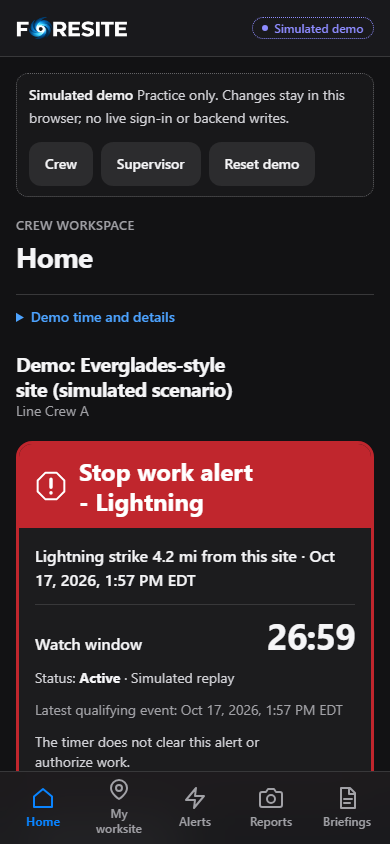
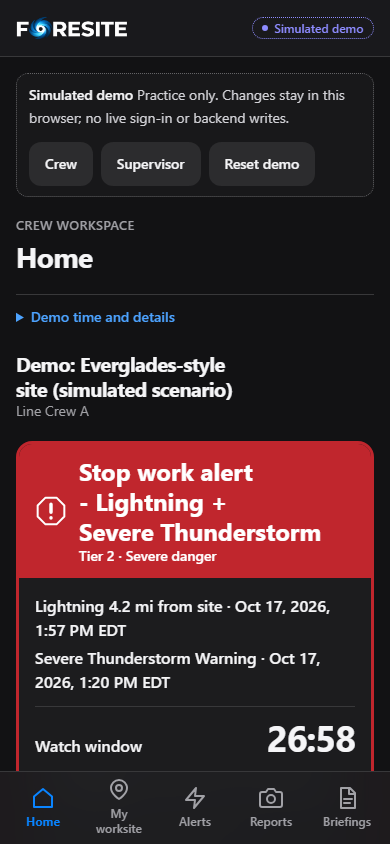
Stack crew score and alert sections at full width

Changed region(s): [[0.0308, 0.5545, 0.9538, 0.9242]]

diff --git a/frontend/src/pages/ConnectedPages.tsx b/frontend/src/pages/ConnectedPages.tsx
@@ -290,7 +290,7 @@ function SitePage({
             </a>
           </div>
         </div>
-        <div className="space-y-5 xl:grid xl:grid-cols-[minmax(0,1.1fr)_minmax(0,1fr)] xl:items-start xl:gap-6 xl:space-y-0">
+        <div className="space-y-5">
           <div className="min-w-0 space-y-5" data-crew-alerts>
             {top.length > 0 && <AlertCard alerts={top} />}
             {!active.length && (
@@ -328,18 +328,16 @@ function SitePage({
             </p>
             {locationDetails}
           </div>
-          <div className="space-y-5 xl:grid xl:grid-cols-12 xl:items-start xl:gap-6 xl:space-y-0">
-            <div className="min-w-0 space-y-3 xl:col-span-4" data-crew-score>
-              <SectionHead title="Site score" />
-              {score}
-            </div>
-            <section className="min-w-0 space-y-3 xl:col-span-8" data-crew-factors aria-label="Score factors and evidence">
-              <SectionHead title="Score factors and evidence" />
-              <div className={`${card} border border-line p-4 @lg:p-5`}>
-                <Factors factors={site.score?.factor_contributions ?? site.top_factors} columns />
-              </div>
-            </section>
+          <div className="min-w-0 space-y-3" data-crew-score>
+            <SectionHead title="Site score" />
+            {score}
           </div>
+          <section className="min-w-0 space-y-3" data-crew-factors aria-label="Score factors and evidence">
+            <SectionHead title="Score factors and evidence" />
+            <div className={`${card} border border-line p-4 @lg:p-5`}>
+              <Factors factors={site.score?.factor_contributions ?? site.top_factors} columns />
+            </div>
+          </section>
           <div className="min-w-0" data-crew-conditions>
             {conditions}
           </div>

diff --git a/docs/CREW_RESPONSIVE_LAYOUT.md b/docs/CREW_RESPONSIVE_LAYOUT.md
@@ -9,10 +9,11 @@ data, permissions and actions across screen sizes.
   between the logo and account controls. PR75 already removed the sidebar. Crew
   has five destinations; only supervisors have Team. The main crew area is capped
   at **1440 px**, without a sidebar gutter.
-- From **1280 px**, Home places the active alert beside supervisor instructions.
-  My Worksite places Site score beside Score factors and evidence with matching
-  section headings/card tops. Weather and conditions spans the full-width row below.
-  Narrow screens stack score, complete factor breakdown, then weather.
+- At every width, Overview places the stop-work alert across the content area,
+  followed by the full-width Hazards and supervisor instructions section.
+  My Worksite stacks **Site score**, **Score factors and evidence**, then
+  **Weather and conditions**, each spanning the content width. The factor and
+  reading grids still gain internal columns when space permits.
 - My Worksite shows every supplied observation, available event tile, full report
   card and score factor without View more/View less controls. Reading
   and event grids gain columns when space permits; report columns are bounded by
@@ -37,6 +38,7 @@ data, permissions and actions across screen sizes.
 
 [Home desktop](crew-desktop.png) ? [Home phone](crew-mobile.png) ?
 [Expanded worksite](worksite-expanded.png) ? [Full-width alerts](alerts-full-width.png)
+[Factors followed by weather](worksite-factors-weather.png).
 [Unified hazards on phone](confirmed-hazards-mobile.png).
 [Species sources above the habitat map](species-provenance.png).
 
@@ -57,29 +59,34 @@ node scripts/check-shell.mjs http://localhost:5177/
 
 Regression checks cover centered navigation, full-width alerts, complete worksite
 readings/reports/outlooks, visible score factors and absent View more controls.
+Geometry checks require full-width Overview alert/hazard sections in reading order
+and full-width My Worksite score/factors/weather sections at every tested width.
 Eleven hazard regression tests cover tier-independent lightning, source states,
 all supported environmental score contributors, outage/elapsed-window alert retention,
 report eligibility/deduplication, unified rows/instructions, distinct Flash Flood
 and unfamiliar hazards, and site identity. Source details and existing
 research/historical limitations remain available with their associated evidence.
 
-Focused browser checks cover 40 role/page cases at 320/390/768/1024/1280/1440/1920/2560,
+Focused browser checks cover 32 role/page cases at 320/390/768/1024/1280/1440/1920/2560,
 with zero horizontal overflow, exceptions or real backend calls. Worksite checks cover
-aligned score/factor cards, full-width weather below and narrow-screen reading order.
+full-width score/factors/weather in vertical order, and Overview checks require the
+full-width alert above hazard information. All supplied readings, available outlooks
+and report cards remain present; navigation remains centered on desktop.
 Unit count: 198.
 Lint, TypeScript, default/live and explicit-demo production builds and the complete
-development/built-demo browser workflow suites also pass.
+built-demo browser workflow suite also pass. It exercises acknowledgement, timer
+reset/reload, report creation, supervisor confirmation/instructions and keyboard flow.
 Unified-list implementation `2d293fb` and `d82a30f`; reconciliation `e96b190`
 preserves main `c285cf5` / read-only guests; `3430f4e` incorporates PR82's fog changes.
 Species placement tests verify source/state/time/caveat containment in its disclosure
 above the habitat map and no detached footer. The prior PR80 baseline also passed
 139 backend score/report/lightning/contract checks; this feature changes no backend code.
-[Review branch](https://github.com/BraydinPG/planit-control-swamphacks/compare/main...feature/cache-score-evidence-layout).
-Latest layout follow-up starts from main `6f563fe` (PR84 merged): 198 frontend tests,
-lint/TypeScript, live/demo builds, the built-demo workflow suite and 40 focused cases
-over eight widths pass with score/factors together and weather below. The initial
-development screenshot run timed out on navigation; the complete built-demo and
-focused browser runs pass with no exceptions or actual backend calls.
+[Review branch](https://github.com/BraydinPG/planit-control-swamphacks/compare/main...feature/cache-full-width-crew-sections).
+Latest user-authorized layout follow-up starts from main `5c1e5d4` (PR86 merged):
+`ConnectedPages.tsx` removes only the two crew side-by-side compositions. It reuses
+the existing cards and leaves supervisor site composition unchanged. Updated browser
+geometry assertions replace the earlier side-by-side expectations. Screenshots above
+show the latest full-width arrangement; prior PR85's score/factor pairing is superseded.
 Existing bundle-size warnings remain; browser evidence is demo/mocked verification,
 not live Auth0/Tiger Data or operational safety acceptance.
 

diff --git a/PROJECT_CONTEXT.md b/PROJECT_CONTEXT.md
@@ -2,6 +2,11 @@
 
 Read this index first, then AGENTS.md, spec.md, tasks.md and relevant source. Verify facts in code; detailed historical results remain in owner guides and Git history.
 
+## Full-width crew sections - 2026-10-18
+- User-authorized `feature/cache-full-width-crew-sections`, base main `5c1e5d4`: My Worksite stacks full-width Site score, Score factors and evidence, then Weather and conditions at every width. Overview stacks the full-width stop-work alert above Hazards and supervisor instructions. This supersedes PR85's desktop score/factor pairing; existing cards, internal grids and phone navigation remain.
+- Verified 198 frontend tests, lint/TypeScript, live/demo builds, the complete built-demo browser workflow suite and 32 focused cases over eight widths. Vertical order/widths, score evidence, all readings/outlooks/reports, acknowledgements/reset/reload and supervisor instructions pass; no overflow, browser exceptions or actual API calls. [Current layout and screenshots](docs/CREW_RESPONSIVE_LAYOUT.md).
+- Only crew composition, existing browser assertions, review screenshots and coordination docs change. Supervisor site layout, scoring/alerts, backend/auth/contracts/fixtures/models and task checkboxes remain unchanged. Rudra should preserve the new full-width ordering; Braydin has no configuration action. Commit/PR attribution is recorded in Git history.
+
 ## Predictive-intelligence landing messaging - 2026-10-18
 - User-authorized `feature/cache-predictive-landing-messaging`, base main `d801615`: public homepage headline is SEE THE RISK. / PLAN BEYOND THE ALERT., with the requested predictive-intelligence description, four research statistics and three feature blocks. Existing branding, atmosphere, animation JavaScript and demo/sign-in destinations remain. No dashboard, backend/auth, model/scoring, fixture, deployment or task-state changes.
 - Audited 526,824 mixed source records, six retrospectively evaluated duration targets, one 5,000-draw offline consistency experiment and 50 EIA reference locations against existing reports. On-page source disclosure preserves those qualifications; no operational validation, universal coverage or work-clearance claim. [Audit, handoff and screenshots](docs/LANDING_PREDICTIVE_MESSAGING.md).

diff --git a/docs/CROSS_SCOPE_CHANGES.md b/docs/CROSS_SCOPE_CHANGES.md
@@ -1,3 +1,26 @@
+## Full-width crew score and alert sections (Cache for Rudra) - 2026-10-18
+
+Explicit user follow-up, branch `feature/cache-full-width-crew-sections` from main
+`5c1e5d4`: My Worksite now stacks Site score, Score factors and evidence, then
+Weather and conditions, each at full content width. Overview stacks the full-width
+stop-work alert above Hazards and supervisor instructions. This supersedes PR85's
+desktop score/factor pairing and the earlier Overview two-column layout.
+
+`ConnectedPages.tsx` changes only crew composition; the existing cards, factor and
+reading grids, evidence disclosures, controls and phone navigation are reused.
+`scripts/check-shell.mjs` replaces side-by-side geometry expectations with full-width
+vertical-order checks at every tested size. No supervisor site composition, backend,
+auth, schema, fixture, model, scoring/alert logic, task checkbox or service changes.
+Rudra should retain the new ordering when maintaining these frontend paths. Braydin
+has no configuration action; other worktrees and existing servers are untouched.
+
+Verified 198 frontend tests, lint/TypeScript, live/demo builds, the complete built-demo
+browser workflow suite and 32 focused cases at eight widths. Screenshots were visually
+inspected on desktop and phone. All readings/outlooks/reports remain; alert acknowledgement,
+reset/reload, report review and supervisor instructions pass. No overflow, browser
+exceptions or actual backend calls. [Guide and screenshots](CREW_RESPONSIVE_LAYOUT.md).
+`PROJECT_CONTEXT.md` records the same handoff; commit/PR attribution is in Git history.
+
 ## Predictive-intelligence landing messaging (Cache for Rudra) - 2026-10-18
 
 Explicit user authorization covers the public homepage copy/presentation and the
